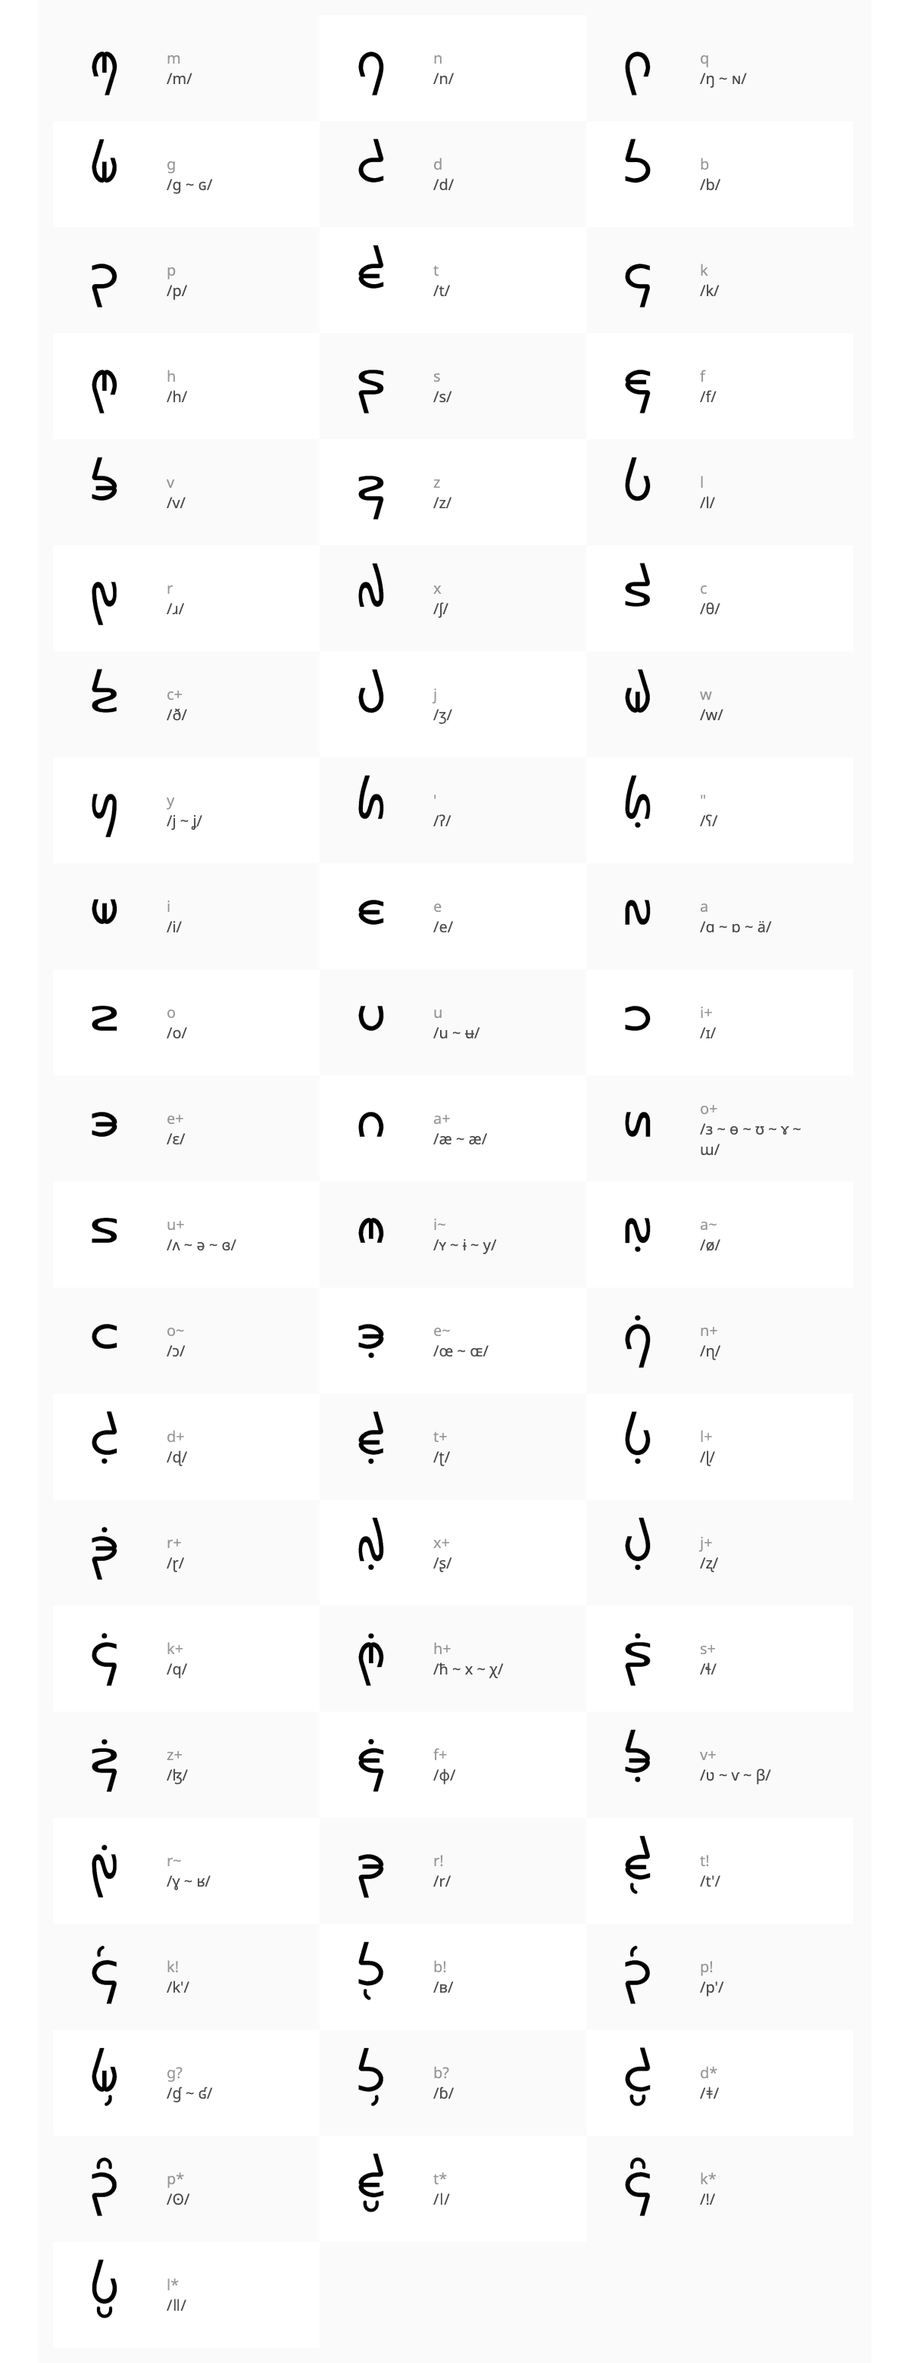
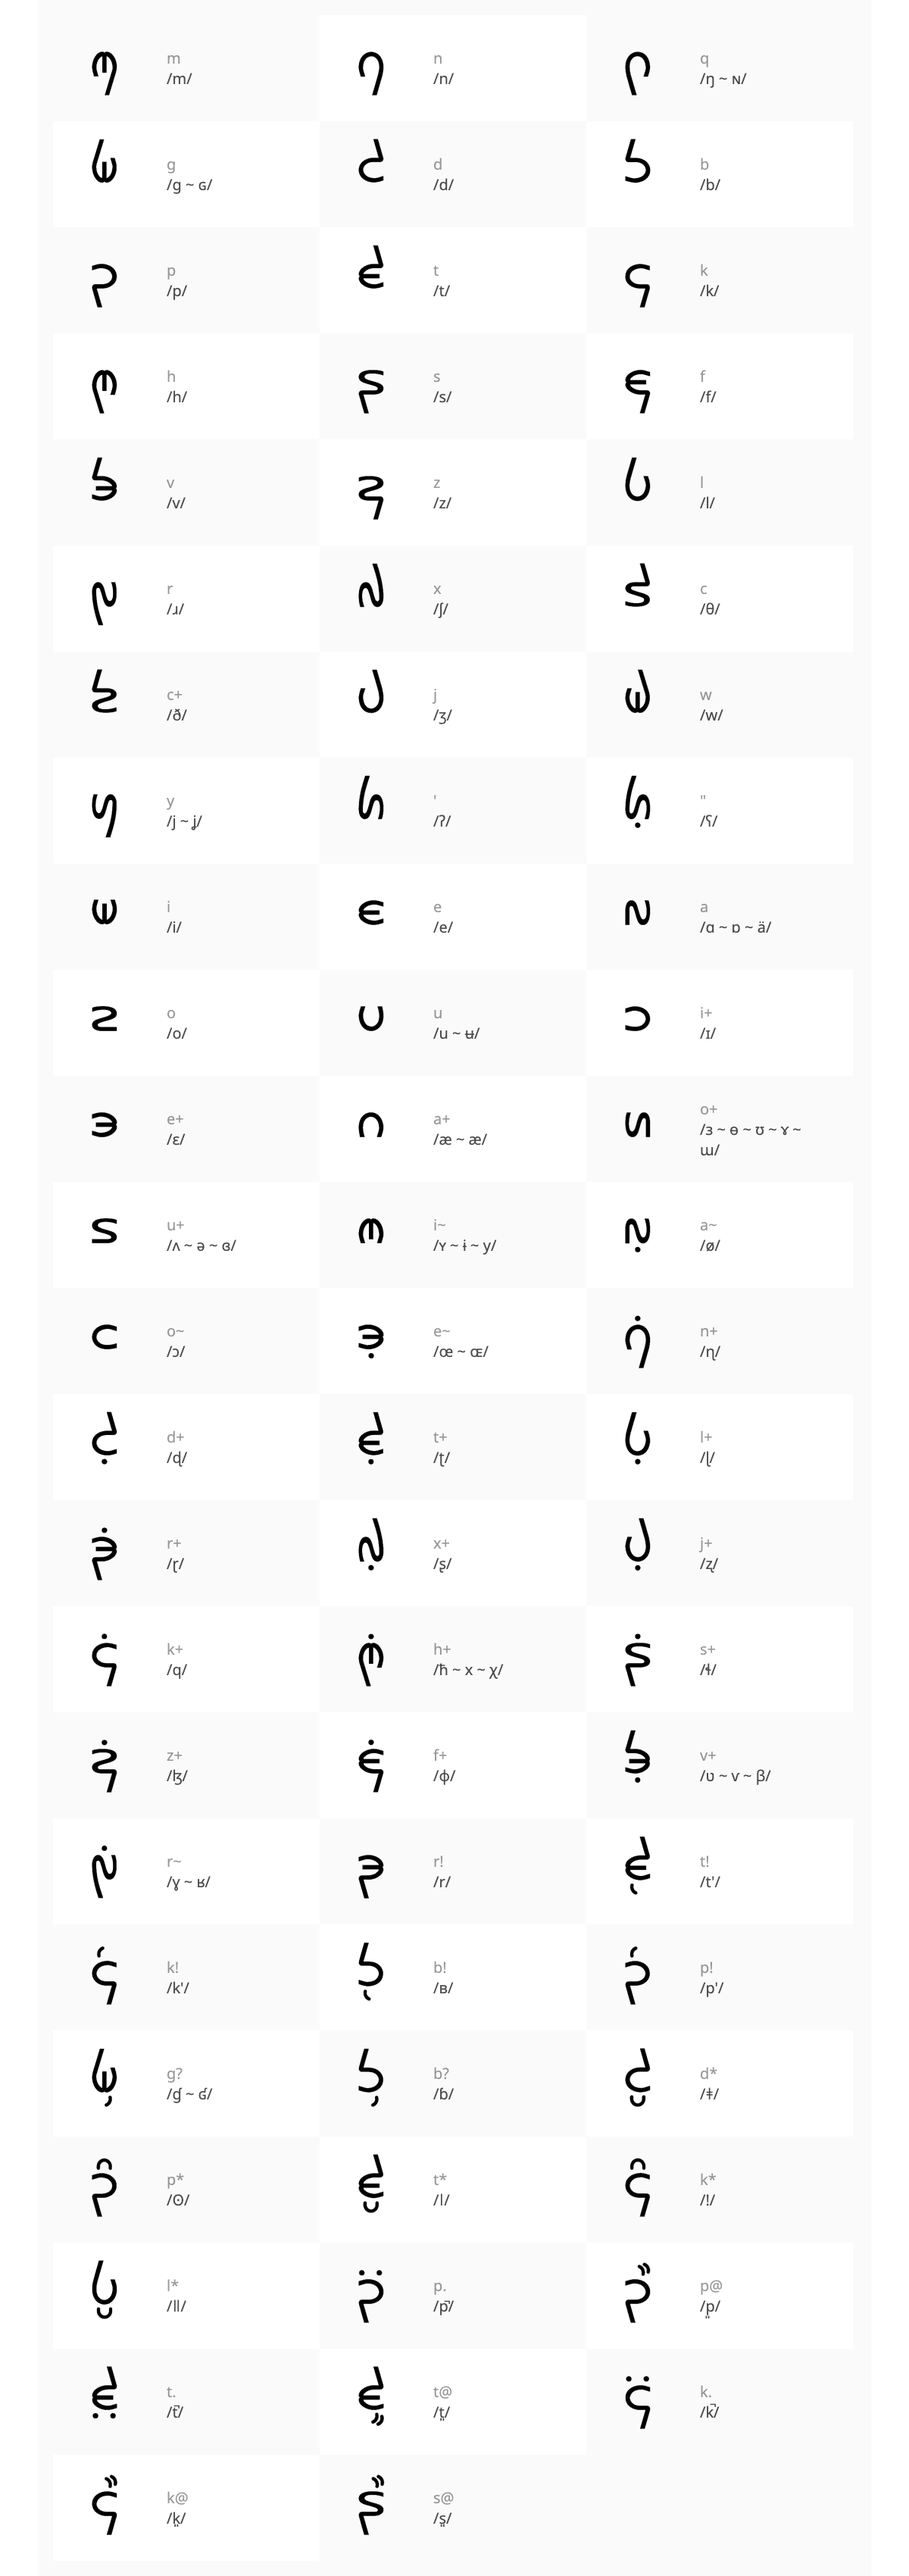
added vowels and more symbols

diff --git a/form.js b/form.js
@@ -400,9 +400,6 @@ const list = [
   { text: "r+", code: "\u00e2", name: 'Indian r sound' },
   { text: "r!", code: "\u00e0", name: 'Single rolling r sound' },
   { text: "r", code: "\u01a0", name: 'English r sound' },
-  { text: "x~", code: "\u0191", name: 'Chinese sh sound' },
-  { text: "x.", code: "\u1410", name: 'Stop Chinese sh sound' },
-  { text: "x@", code: "\u1419", name: 'Tense Chinese sh sound' },
   { text: "x+", code: "\u0192", name: 'Indian sh sound' },
   { text: "x.", code: "\u141a", name: 'Stop sh sound' },
   { text: "x@", code: "\u1417", name: 'Tense sh sound' },

diff --git a/readme.md b/readme.md
@@ -155,6 +155,14 @@ Here is the consonant IPA phonology chart mapping.
   <img src="https://github.com/mountbuild/tone-script/blob/build/phonology.png?raw=true" />
 </p>
 
+## Vowel Symbols
+
+Here are all the possible vowel combinations. The combination elements are: tone (1, 2, 3, 4, or 5, 1 being the lowest, 5 being the highest), nasality, and stress. In languages with only 3 tones you can just use tones 2, 3, and 4, but in languages with 5 tones you need all 5. Nasality is done with two dots under the vowel. Stress is done with one dot above the vowel. Low tones "fall" and so are on the right, while high tones "rise", and so are on the left.
+
+<p align="center">
+  <img src="https://github.com/mountbuild/tone-script/blob/build/vowels.png?raw=true" />
+</p>
+
 <h3 id="license">License</h3>
 
 Copyright 2021 <a href='https://mount.build'>Mount</a>
